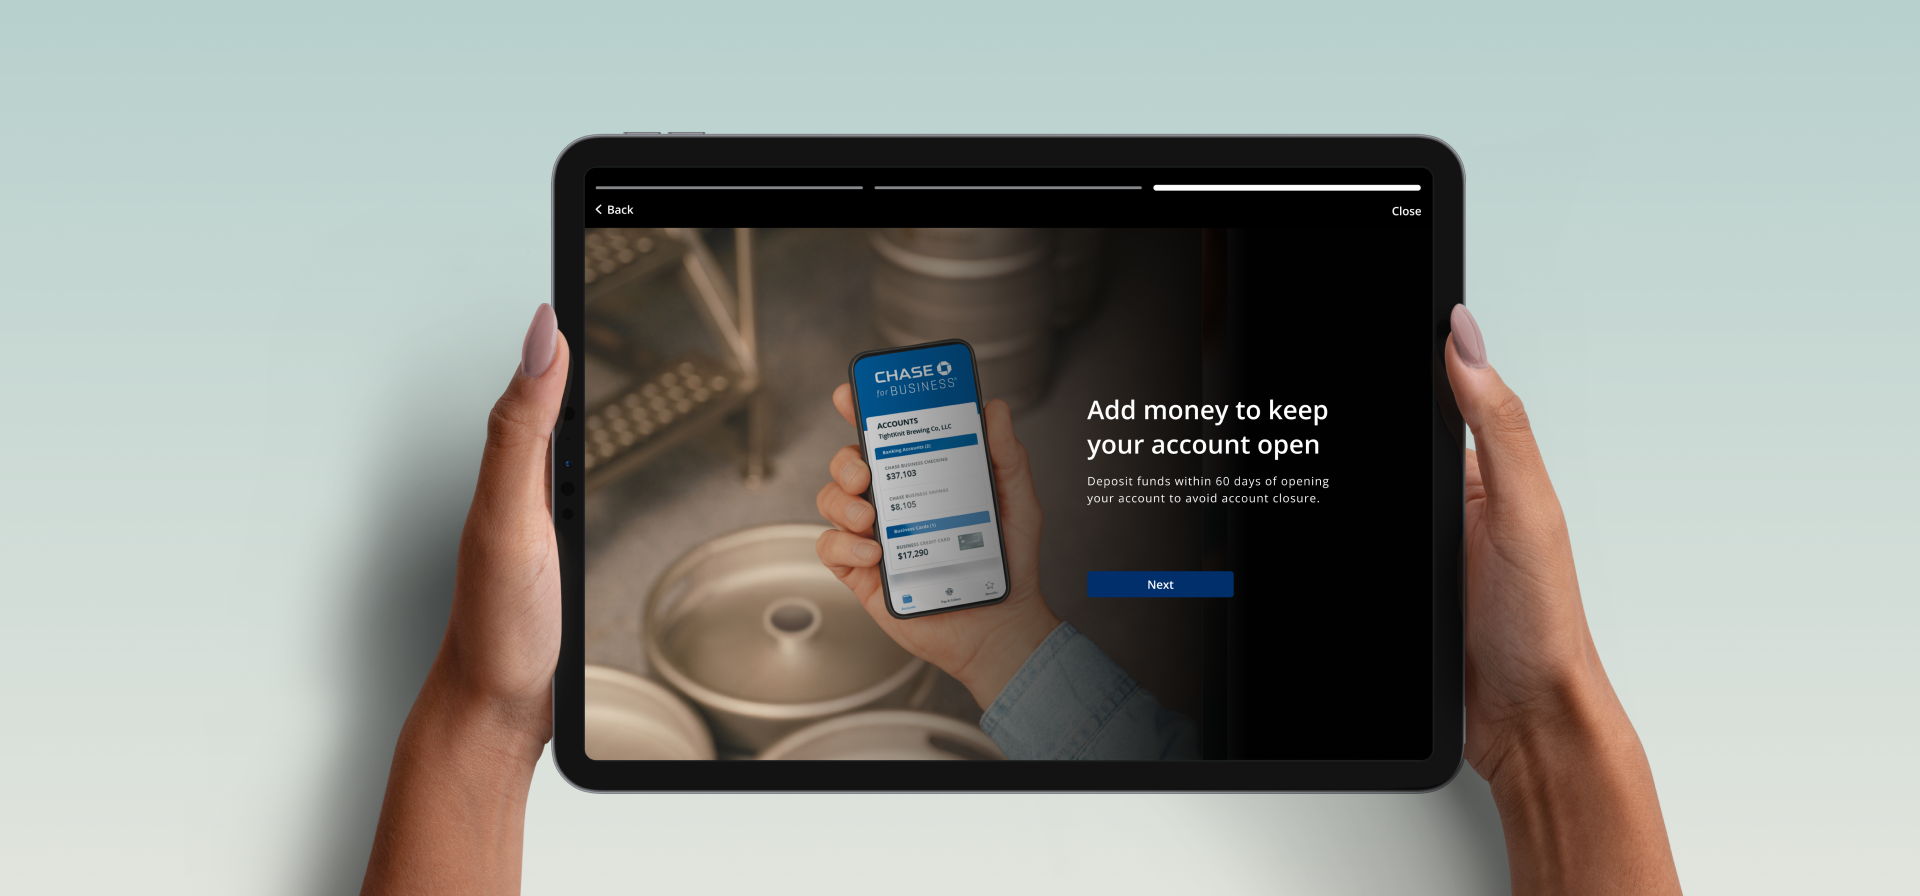
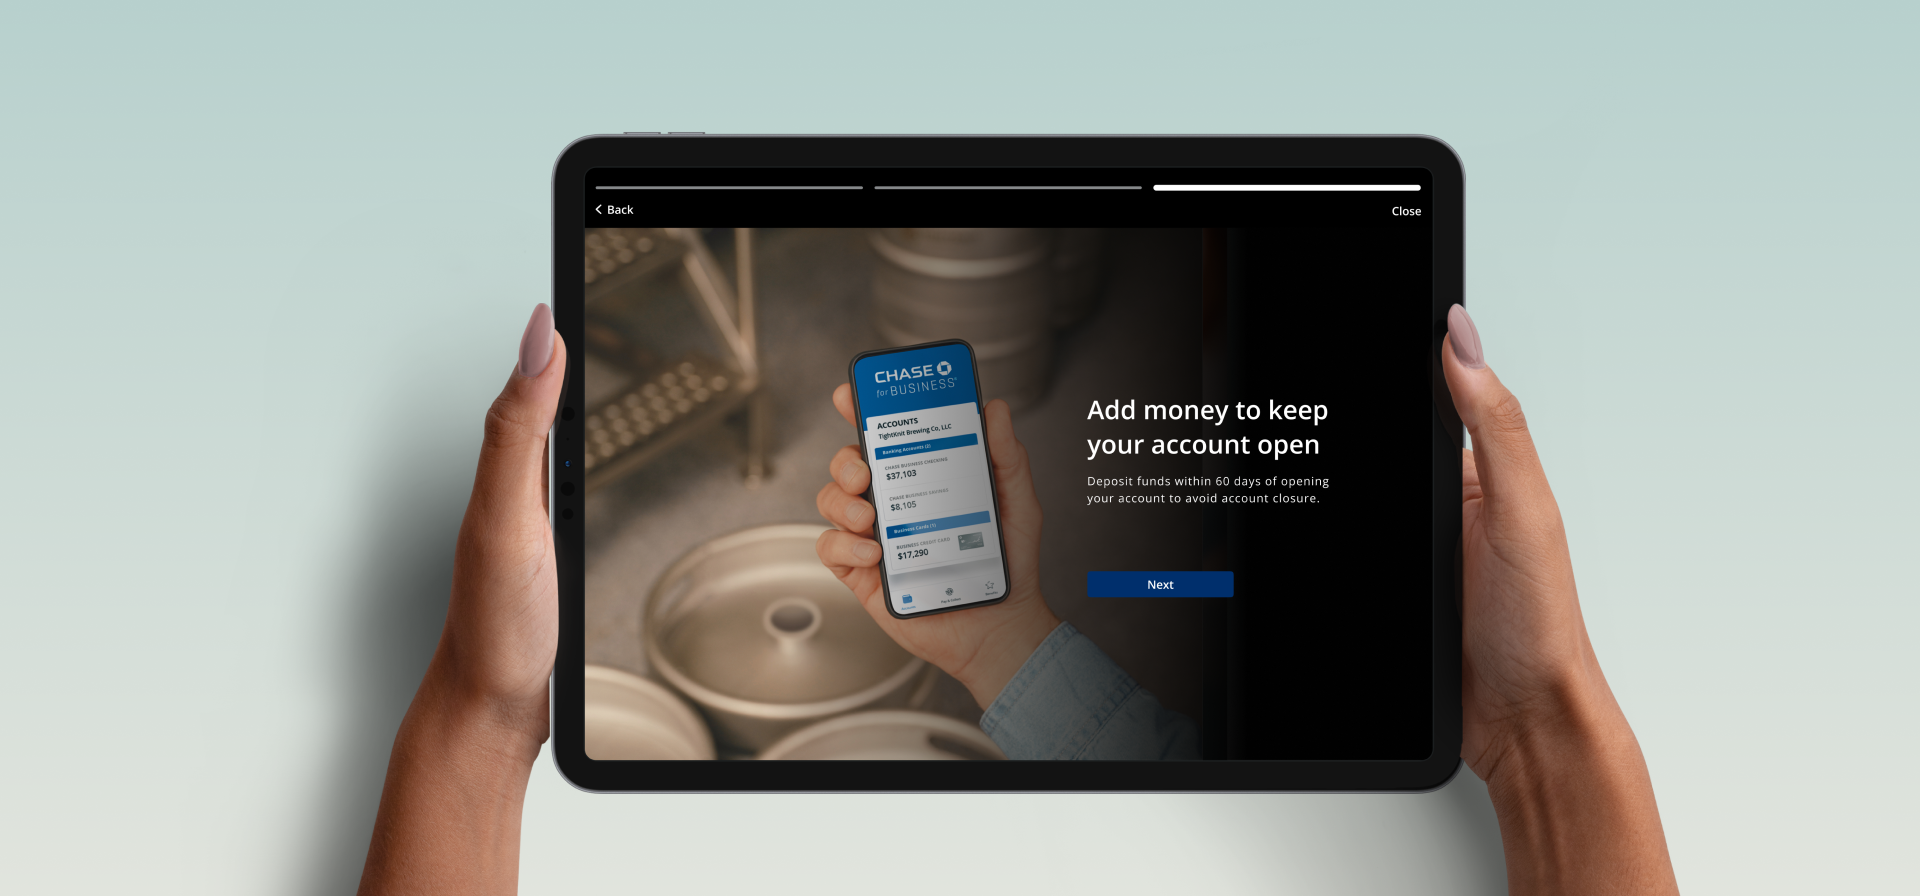
Reupload onboarding tiles 04–06
Replace 04, 05, and 06 and bust cache for the updated assets.

diff --git a/js/main.js b/js/main.js
@@ -27,7 +27,7 @@ async function init() {
     return;
   }
 
-  const response = await fetch("./data/projects.json?v=onboarding-reupload-1");
+  const response = await fetch("./data/projects.json?v=onboarding-reupload-2");
   const data = await response.json();
 
   getPublishedSections(data.sections).forEach((section) => {
